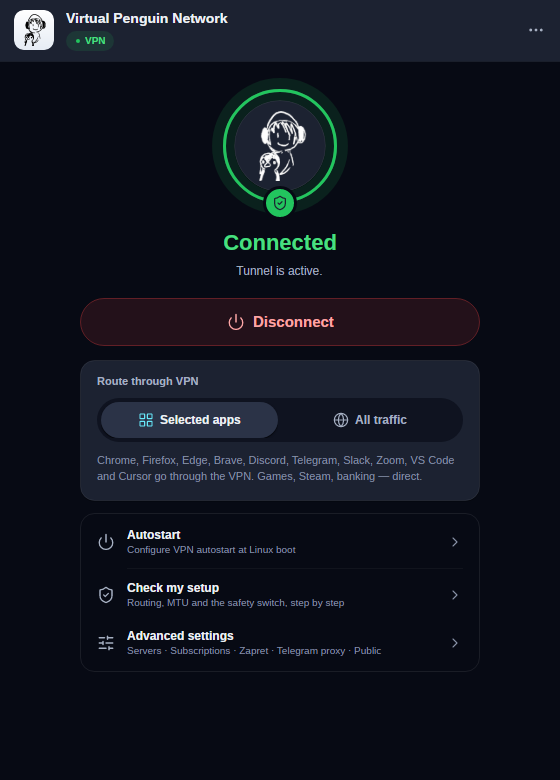
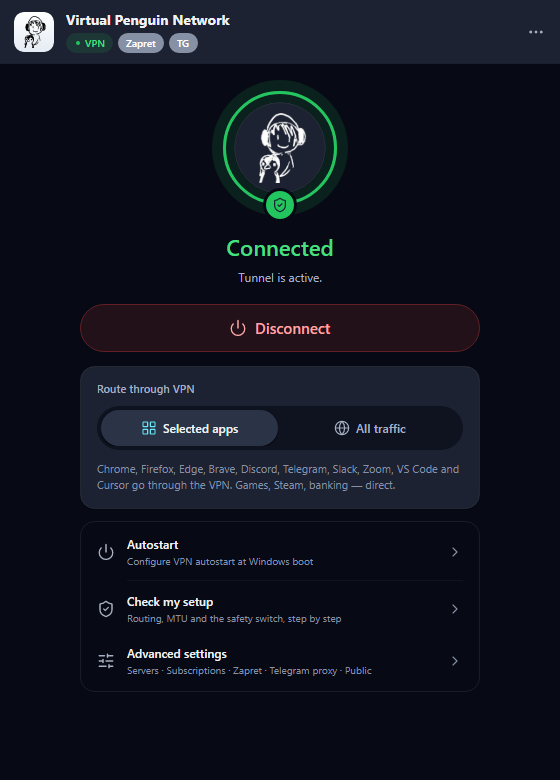
docs: README polish - Windows renders, honest clip caption, no emoji (R-2) (#540)
The README screens and clip are rendered with a Windows build of the UI renderer on WINBRAT (published by build-ui-mcp.yml as vpnrouter-ui-mcp-win-x64), the clip is captioned as assembled from renders, and the platform emoji on the install pages are replaced by plain labels. Numbers and worker preflight are in the brief outcome.

diff --git a/plans/phase-readme-windows-shots-2026-10-04.md b/plans/phase-readme-windows-shots-2026-10-04.md
@@ -1,0 +1,55 @@
+# README polish: Windows renders, an honest clip caption, no emoji (R-2)
+
+## Why
+
+The owner asked to bring the README work (R-1, #538 and #539, merged) to an ideal state. A review of the merged result found:
+
+- The screenshots and the clip were rendered by the Linux build of the UI renderer. The home screen therefore shows Linux-only text ("Configure VPN autostart at Linux boot", from `OsDisplayName`) and Linux fonts, on a README whose first install line is Windows.
+- The clip is assembled from those renders with an animated cursor, a crossfade and a highlight. It is not a screen recording, and the README does not say so; the hero caption does not say which OS was rendered.
+- The guide pages (`docs/guide/install.md`, English and Russian) still carry the platform emoji the contract allows only "until a dedicated presentation edit replaces them"; R-1 moved them unchanged.
+- The merged task branches `dsh/readme-front-page` and `dsh/readme-clip-quality` are still on GitHub.
+
+## What
+
+1. `.github/workflows/build-ui-mcp.yml` also publishes the renderer for `win-x64` (self-contained, same project, `-p:UiMcpRid=win-x64`) and uploads it as `vpnrouter-ui-mcp-win-x64`. The Linux smoke session stays as it is; a Windows smoke is the render on WINBRAT below.
+2. The README screens are rendered on WINBRAT with that binary: headless, fixture data, the installed app and the VPN are not touched (read-only preflight recorded below). The binary is copied to a task-owned folder, used, and the folder is removed afterwards.
+3. The six PNG and two WebP files in `docs/images/` are replaced by the Windows renders (same file names, same size rules, clip rebuilt from a lossless intermediate at WebP quality 95 and checked with `clip_quality.py`).
+4. `README.md` and `README.ru.md`: the hero caption says the screens are renders of the Windows build with sample data; the clip gets a caption saying it is assembled from such renders with an animated cursor and is not a screen recording.
+5. `docs/guide/install.md` and `docs/guide/ru/install.md`: platform emoji replaced by plain text labels.
+6. The two merged task branches are deleted on GitHub after the merge.
+
+## Not covered
+
+- Android screenshots: the renderer does not draw the Android UI and an emulator run needs a prepared app state; not part of this task.
+- macOS and Linux renders: the README shows one platform (Windows) and says so.
+
+## Invariants
+
+- No product code changes. No credentials or real servers in any image. Image file names stay, so the README screenshot test needs no change.
+- `VPNRouter-v{version}-android-arm64.apk` stays in both READMEs. README.ru mirrors README.md. No emoji added anywhere.
+- Worker rules (`docs/test-workers.md`): preflight numbers recorded, one scenario at a time, task-owned paths only, cleanup on PASS and FAIL.
+
+## Verification
+
+Worker preflight (read-only, 2026-10-04): WINBRAT identity confirmed, 8 logical CPUs at 2 percent load, 13.4 GB of 16 GB RAM free, about 1 GB swap in use, 12 GB free on C:, no dotnet, msbuild, java or compiler server running, `win.lock` free; the installed app was already running and is left alone.
+
+Renderer artifact from the PR run, render on WINBRAT, the six images and two clips looked at, `clip_quality.py` (no frame under 0.98), `readme_check.py` and `readme_phone.py` on both READMEs, link check, PR CI on the exact head.
+
+## Rollback
+
+Revert the PR. The previous images and workflow are in Git.
+
+## Outcome
+
+Ready for review.
+
+- Workflow: `build-ui-mcp.yml` now also publishes `win-x64` (self-contained) as the artifact `vpnrouter-ui-mcp-win-x64`; PR run 37210114841 at c1e0f661 passed (both publishes, Linux smoke unchanged).
+- Render on WINBRAT: identity checked twice (`WINBRAT`), binary from that artifact copied to `C:\android-build\readme-render`, six `ui_render` calls through `mcpcall.py` over ssh (about 20 s of work), folder removed afterwards (checked), no `vpnrouter-ui-mcp.exe` left running; the installed app that was already running was not touched. The Windows render differs from the Linux one where it matters: "Configure VPN autostart at Windows boot", the VPN/Zapret/TG badges in the header, real executable names in the application list.
+- Images in `docs/images/` replaced (same names): six PNG of 50 to 53 KB, two clips of 2.7 and 2.9 MB rebuilt from a lossless intermediate at WebP quality 95; `clip_quality.py` worst frame 0.985 (en) and 0.985 (ru), none under 0.98. The click and highlight positions of the clip were retuned for the taller Windows header.
+- README: the hero caption now says the screens are renders of the current code on Windows with sample data; the clip has its own caption saying it is assembled from such renders with an animated cursor and is not a screen recording (English and Russian).
+- Guide pages: all 28 platform emoji removed from `docs/guide/install.md` and the Russian page (plain labels instead); no emoji left in the READMEs or guide pages.
+- Checks: `readme_check.py` 0 FAIL and 0 WARN on both READMEs, `readme_phone.py` PASS (390 px box) on both, links unchanged and resolving.
+- Surprise: the first clip captures hung and two headless Chromium processes crashed (SIGILL, SIGTRAP) while about 6 GB of `/tmp` (a RAM-backed filesystem) were in use together with the owner's heavy browser tab; freeing about 1 GB of my own scratch files fixed it and the renders ran at low priority afterwards.
+- Not done: Android screenshots; macOS and Linux renders (the README says Windows).
+
+Rollback: revert the PR.

diff --git a/docs/guide/install.md b/docs/guide/install.md
@@ -6,7 +6,7 @@ Part of the [VPNRouter README](../../README.md).
 
 <table>
 <tr>
-<td width="80" align="center">🐧<br><b>Linux</b></td>
+<td width="80" align="center"><b>Linux</b></td>
 <td>
 
 ```bash
@@ -16,7 +16,7 @@ Debian / Ubuntu / Mint / Pop / elementary. Adds the signed apt repo, installs `v
 </td>
 </tr>
 <tr>
-<td align="center">🍎<br><b>macOS</b></td>
+<td align="center"><b>macOS</b></td>
 <td>
 
 ```bash
@@ -26,7 +26,7 @@ Apple Silicon. Auto-strips Gatekeeper quarantine. First launch prompts once for 
 </td>
 </tr>
 <tr>
-<td align="center">🪟<br><b>Windows</b></td>
+<td align="center"><b>Windows</b></td>
 <td>
 
 ```powershell
@@ -38,7 +38,7 @@ Prefer a regular setup wizard? Download `VPNRouter-Setup-v{version}.exe` from [R
 </td>
 </tr>
 <tr>
-<td align="center">🤖<br><b>Android</b></td>
+<td align="center"><b>Android</b></td>
 <td>
 
 ```
@@ -59,16 +59,16 @@ Published version tags are permanent source references; older candidate download
 
 | File | Platform | What it is |
 |---|---|---|
-| `VPNRouter-v{version}-win.zip` | 🪟 Windows | Full installer (first install) |
-| `VPNRouter-update-v{version}-win.zip` | 🪟 Windows | DLL-only update (if you're already on a recent version) |
-| `VPNRouter-Setup-v{version}.exe` | 🪟 Windows | Setup wizard (Inno Setup, not code-signed): installs the same files as the install zip, with an uninstaller and optional autostart/service checkboxes |
-| `VPNRouter-*-win.zip.sha256` | 🪟 Windows | SHA256 companion file — auto-updater verifies the download against this before extracting (v2.15.8+) |
-| `VPNRouter-v{version}-mac.dmg` | 🍎 macOS | Drag-install DMG (Apple Silicon) with `InstallGuide.html` for one-time sudoers setup |
-| `VPNRouter-v{version}-mac.zip` | 🍎 macOS | Raw `.app` bundle (for manual install) |
-| `VPNRouter-v{version}-linux-amd64.deb` | 🐧 Linux | Debian/Ubuntu package (desktop entry + `setcap` for passwordless TUN; no systemd service). Install: `sudo dpkg -i <file>.deb` |
-| `VPNRouter-v{version}-linux-x86_64.AppImage` | 🐧 Linux | Portable single-file build. `chmod +x`, run, no install needed |
-| `VPNRouter-v{version}-linux.tar.gz` | 🐧 Linux | Raw tarball (for manual install or packaging into other formats) |
-| `VPNRouter-v{version}-android-arm64.apk` | 🤖 Android | Signed ARM64 APK, API 23+. Built and signed by `build-android.yml` for every release tag, then published at Releases and [`vpn.ninitux.com/android`](https://vpn.ninitux.com/android). An in-app updater delivers future APKs. |
+| `VPNRouter-v{version}-win.zip` | Windows | Full installer (first install) |
+| `VPNRouter-update-v{version}-win.zip` | Windows | DLL-only update (if you're already on a recent version) |
+| `VPNRouter-Setup-v{version}.exe` | Windows | Setup wizard (Inno Setup, not code-signed): installs the same files as the install zip, with an uninstaller and optional autostart/service checkboxes |
+| `VPNRouter-*-win.zip.sha256` | Windows | SHA256 companion file — auto-updater verifies the download against this before extracting (v2.15.8+) |
+| `VPNRouter-v{version}-mac.dmg` | macOS | Drag-install DMG (Apple Silicon) with `InstallGuide.html` for one-time sudoers setup |
+| `VPNRouter-v{version}-mac.zip` | macOS | Raw `.app` bundle (for manual install) |
+| `VPNRouter-v{version}-linux-amd64.deb` | Linux | Debian/Ubuntu package (desktop entry + `setcap` for passwordless TUN; no systemd service). Install: `sudo dpkg -i <file>.deb` |
+| `VPNRouter-v{version}-linux-x86_64.AppImage` | Linux | Portable single-file build. `chmod +x`, run, no install needed |
+| `VPNRouter-v{version}-linux.tar.gz` | Linux | Raw tarball (for manual install or packaging into other formats) |
+| `VPNRouter-v{version}-android-arm64.apk` | Android | Signed ARM64 APK, API 23+. Built and signed by `build-android.yml` for every release tag, then published at Releases and [`vpn.ninitux.com/android`](https://vpn.ninitux.com/android). An in-app updater delivers future APKs. |
 | `*.sha256` companion files | All | SHA256 hash sidecars — auto-updater + CI integrity check verify before extracting. Every binary above ships with a `<file>.sha256` sidecar (Windows `*-win.zip` + `*-update-win.zip` + `*-Setup-*.exe`, macOS `*-mac.dmg` + `*-mac.zip`, Linux `*.deb` + `*.AppImage` + `*.tar.gz`). Compare `sha256sum <file>` on Linux, `shasum -a 256 <file>` on macOS, or `Get-FileHash -Algorithm SHA256 <file>` on Windows with the 64-character hash in its sidecar. Some sidecars contain only the hash and cannot be used directly with `sha256sum -c`. |
 
 The scheduled pool job publishes this separate artifact when it succeeds:

diff --git a/README.md b/README.md
@@ -19,7 +19,7 @@
   <img src="docs/images/home-connected-dark-en.png" width="46%" alt="VPNRouter main screen, connected, dark theme"/>
   <img src="docs/images/home-ready-light-en.png" width="46%" alt="VPNRouter main screen, ready to connect, light theme"/>
 </p>
-<p align="center"><sub>Rendered from the current build with sample data: no real servers or accounts.</sub></p>
+<p align="center"><sub>Rendered from the current code on Windows with sample data: no real servers or accounts.</sub></p>
 
 <p align="center">
   <a href="https://github.com/PavelLizunov/VPNRouter/releases/latest"><img src="https://img.shields.io/github/v/release/PavelLizunov/VPNRouter?color=7C3AED" alt="Latest release"/></a>
@@ -70,6 +70,7 @@ More: [Features](docs/guide/features.md).
 <p align="center">
   <img src="docs/images/tour-en.webp" width="640" alt="Short tour: connect with one button, then choose which apps use the VPN"/>
 </p>
+<p align="center"><sub>Assembled from such renders with an animated cursor. It is not a screen recording.</sub></p>
 <p align="center">
   <img src="docs/images/apps-dark-en.png" width="46%" alt="VPNRouter application routing screen with the Browsers category selected"/>
 </p>
